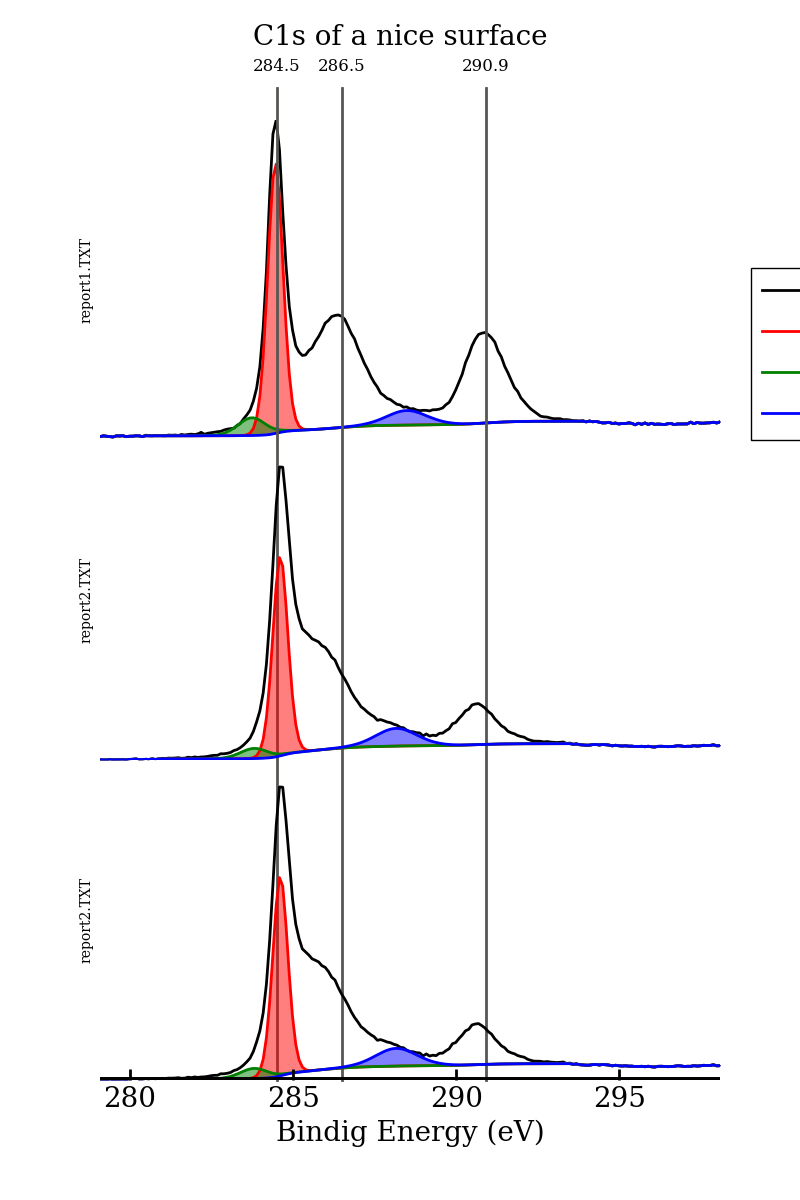
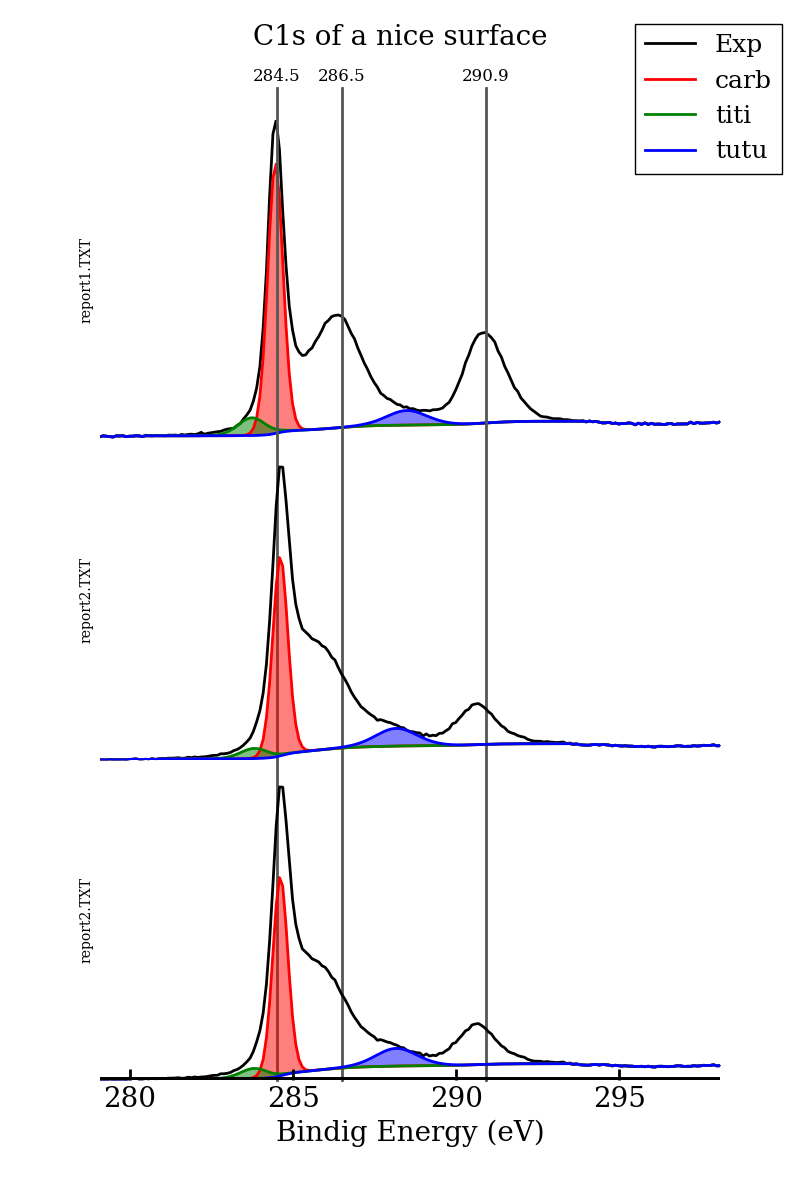
Update legend position

diff --git a/xpsplot.py b/xpsplot.py
@@ -291,7 +291,8 @@ class StackedXPSData(object):
 
         # the legend
         if legend:
-            axis[0].legend(bbox_to_anchor=(1.05, 0), loc='lower left', borderaxespad=0.)
+            axis[0].legend(loc='upper right', borderaxespad=0.,
+                           fontsize=18, bbox_to_anchor=(1.1, 1.3),)
 
         fig.suptitle(self.title)
 
@@ -300,7 +301,7 @@ class StackedXPSData(object):
             axis[0].axvline(x=p, ymin=-(len(self.xpsData) - 1), ymax=1.1, c="#555753",
                             linewidth=2, clip_on=False)
             ymin, ymax = axis[0].get_ylim()
-            axis[0].text(x=p, y=1.15 * ymax, s="{:5.1f}".format(p), fontsize=12,
+            axis[0].text(x=p, y=1.12 * ymax, s="{:5.1f}".format(p), fontsize=12,
                          horizontalalignment='center')
 
         return fig

diff --git a/example2.py b/example2.py
@@ -7,7 +7,11 @@ import xpsplot
 stuff = xpsplot.StackedXPSData("report1.TXT", "report2.TXT", "report2.TXT")
 
 stuff.title = "C1s of a nice surface"
+
+# set column names. If "", column name is keep unchanged
 stuff.set_all_column_names("", "", "carb", "", "", "tata", "toto", "titi", "tutu", "", "")
 
-stuff.save_plot("stack.png", columns=["Exp", "carb", "titi", "tutu"], fill=True,
-                pos=[284.5, 290.9, 286.5])
+stuff.save_plot("stack.png",                               # picture name
+                columns=["Exp", "carb", "titi", "tutu"],   # column to plot
+                fill=True,                                 # fill component
+                pos=[284.5, 290.9, 286.5])                 # vertical line positions

diff --git a/example.py b/example.py
@@ -13,5 +13,7 @@ report1.set_column_name("Comp_5", "titi")
 report1.set_column_name("Comp_6", "toto")
 report1.set_column_name("Comp_7", "tutu")
 
-report1.save_plot("report1.png", columns=["Exp", "carb", "titi", "tutu"],
-                  fill=True, fname=False)
+report1.save_plot("report1.png",                                # picture name
+                  columns=["Exp", "carb", "titi", "tutu"],      # column to plot
+                  fill=True,                                    # fill component
+                  fname=False)                                  # do not write file name

diff --git a/README.md b/README.md
@@ -19,20 +19,21 @@ another.
 This is example.py file in order to plot a single XPS data file
 
 ```python
-
 import xpsplot
 
 report1 = xpsplot.XPSData.from_file("report1.TXT")
 
-report1.rename("Comp_1", "carb")
-report1.rename("Comp_3", "carbonyle")
-report1.rename("Comp_4", "tata")
-report1.rename("Comp_5", "titi")
-report1.rename("Comp_6", "toto")
-report1.rename("Comp_7", "tutu")
+report1.set_column_name("Comp_1", "carb")
+report1.set_column_name("Comp_3", "carbonyle")
+report1.set_column_name("Comp_4", "tata")
+report1.set_column_name("Comp_5", "titi")
+report1.set_column_name("Comp_6", "toto")
+report1.set_column_name("Comp_7", "tutu")
 
-report1.save_plot("report1.png", columns=["Exp", "carb", "titi", "tutu"],
-                  fill=True, fname=False)
+report1.save_plot("report1.png",                                # picture name
+                  columns=["Exp", "carb", "titi", "tutu"],      # column to plot
+                  fill=True,                                    # fill component
+                  fname=False)                                  # do not write file name
 ```
 
 this is the output on `report1.png` file :
@@ -49,10 +50,14 @@ import xpsplot
 stuff = xpsplot.StackedXPSData("report1.TXT", "report2.TXT", "report2.TXT")
 
 stuff.title = "C1s of a nice surface"
+
+# set column names. If "", column name is keep unchanged
 stuff.set_all_column_names("", "", "carb", "", "", "tata", "toto", "titi", "tutu", "", "")
 
-stuff.save_plot("stack.png", columns=["Exp", "carb", "titi", "tutu"], fill=True,
-                pos=[284.5, 290.9, 286.5])
+stuff.save_plot("stack.png",                               # picture name
+                columns=["Exp", "carb", "titi", "tutu"],   # column to plot
+                fill=True,                                 # fill component
+                pos=[284.5, 290.9, 286.5])                 # vertical line positions
 ```
 
 this is the output on `stack.png` file :
